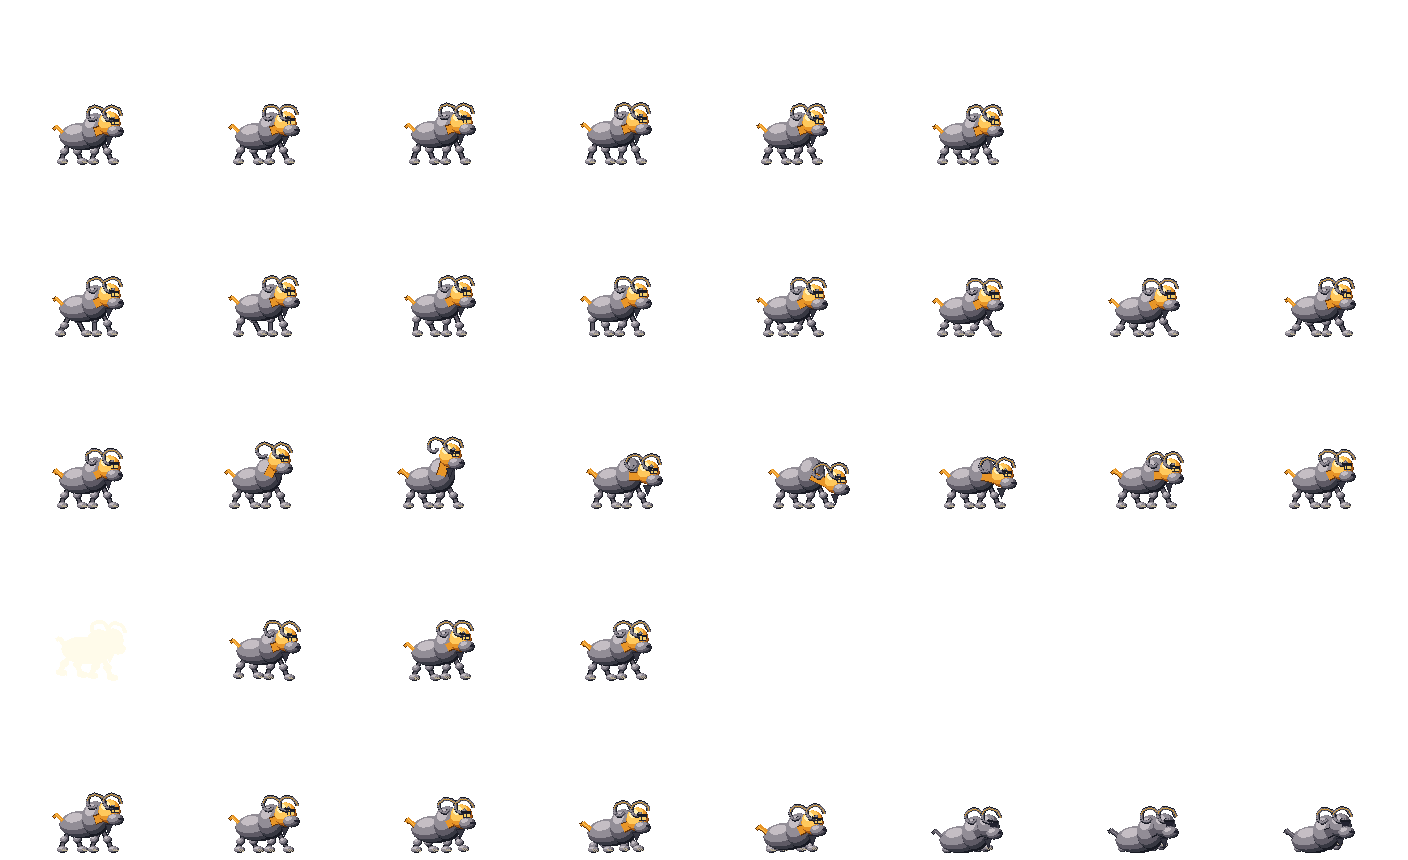
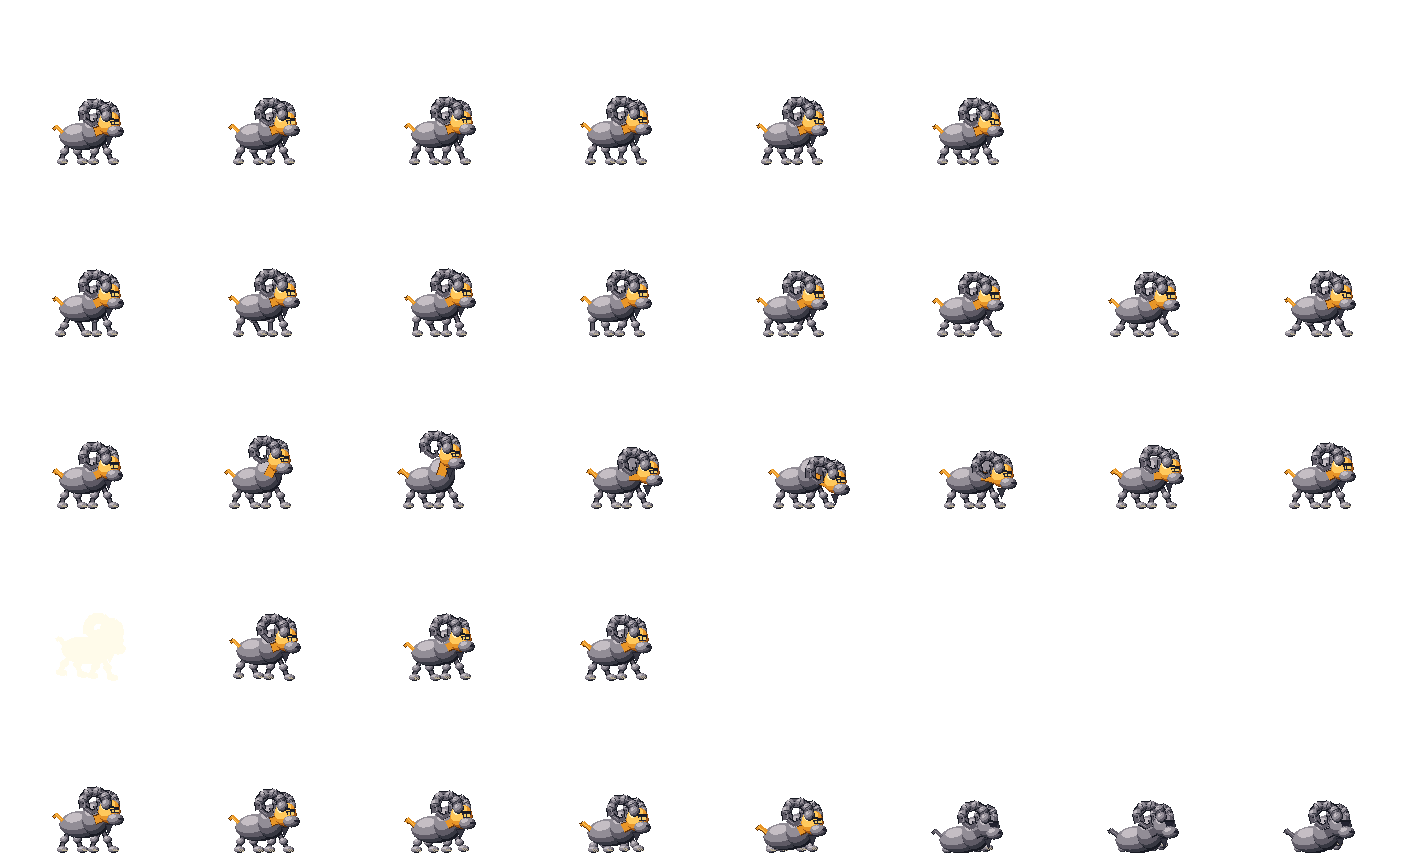
Fix Cinderhorn horn anatomy and seat Ember crown on its head

diff --git a/client/index.html b/client/index.html
@@ -40,7 +40,7 @@
     <svg id="logo" class="logo" viewBox="0 0 1000 440" role="img" aria-label="Valhalla Rumble, 발할라 럼블"></svg>
 
     <p class="cta"><span class="cta-en">[ Touch to Awaken the Horn ]</span><span class="cta-ko" lang="ko">터치하여 시작</span></p>
-    <p class="version">Beta 1.43.1</p>
+    <p class="version">Beta 1.43.2</p>
 
     <button class="start" id="start" type="button" aria-label="Touch to awaken the horn"></button>
   </section>

diff --git a/scripts/emberwake_slime_models.py b/scripts/emberwake_slime_models.py
@@ -129,13 +129,24 @@ def cinderhorn(setup,clip,n):
     r.taper([(x-28,y+5),(x-35,y+12),(x-38,y+9)],cooled(d),4,1)
     hx=x+23+11*s-5*w;hy=y+15+14*w-16*s
     r.limb([(x+8,y+6),(hx-5,hy-4)],cooled(d),9)
+    def horn(rootx, rooty, size):
+        # A thick open ram curl rooted at the temple, with an inward-pointing tip.
+        curve=[(0,0),(-2,9),(-10,15),(-20,14),(-25,6),(-24,-4),(-17,-10),(-11,-7),(-12,-3)]
+        pts=[(rootx+u*size,rooty+v*size) for u,v in curve]
+        r.limb(pts[:6],IRON,10*size)
+        r.taper(pts[5:],IRON,5*size,.7*size)
+        r.ball(rootx,rooty,5.6*size,6.2*size,IRON)
+        # Lit upper ridge and short growth grooves follow the horn's solid curve.
+        r.line([(px,py+1.2*size) for px,py in pts[:6]],IRON[3],1)
+        for j in (1,2,3,4,5):
+            px,py=pts[j];vx=pts[j+1][0]-pts[j-1][0];vy=pts[j+1][1]-pts[j-1][1]
+            length=math.hypot(vx,vy);nx=-vy/length;ny=vx/length
+            width=(3.3-j*.35)*size
+            r.line([(px-nx*width,py-ny*width),(px+nx*width,py+ny*width)],IRON[1],1)
+    # Far curl is behind the skull; the larger near curl grows from the visible temple.
+    horn(hx+7,hy+10,.72)
     r.ball(hx,hy,12,14,cooled(d));r.ball(hx+6,hy-9,9,7,IRON)
-    # True spiral iron horns with a bright outer ridge, attached to the head.
-    for side in (-1,1):
-        cx=hx-8+side*9;cy=hy+10
-        pts=[(cx+math.cos(t)*rr,cy+math.sin(t)*rr) for t,rr in [(j*.30,12-j*.44) for j in range(20)]]
-        r.limb(pts,IRON,3)
-        r.line(pts[:10],GOLD[2],1)
+    horn(hx-3,hy+9,1.)
     r.poly([(hx+1,hy+3),(hx+10,hy+3),(hx+9,hy-1),(hx+2,hy-1)],OUTLINE)
     if d<.65:
         r.poly([(hx+3,hy+2),(hx+9,hy+2),(hx+9,hy),(hx+3,hy)],GOLD[3])
@@ -231,9 +242,18 @@ def crown(setup,clip,n):
         r.line([(hx-10,hy+4),(hx-5,hy+2)],FIRE[4],2)
         r.line([(hx+9,hy+7),(hx+7,hy)],FIRE[3],2)
     r.poly([(hx-8,hy-8),(hx-3,hy-6),(hx+1,hy-9),(hx+9,hy-7),(hx+6,hy-14),(hx-5,hy-15)],cooled(d)[2],OUTLINE)
-    # Separate broken crown drops onto the ground beside the fallen stone body.
-    cr=r if d<.5 else type(r)(a,0,0,0)
-    cx=hx if d<.5 else 20+24*d
-    cy=hy+27 if d<.5 else (hy+27)*(1-d)-3*d
-    plate(cr,[(cx-18,cy),(cx-20,cy+15),(cx-10,cy+8),(cx-6,cy+18),(cx-2,cy+3),(cx+6,cy),(cx+10,cy+13),(cx+14,cy+6),(cx+19,cy+14),(cx+17,cy-2)],GOLD)
+    # The solid rim overlaps the scalp; only the death clip sheds the crown.
+    seat=hy+12
+    if d<=.4:
+        cr,cx,cy=r,hx,seat
+    else:
+        t=(d-.4)/.6
+        sx,sy=r.t(hx,seat)
+        cx,cy=sx*(1-t)+44*t,sy*(1-t)-3*t
+        cr=type(r)(a,cx,cy,r.phi*(1-t))
+    plate(cr,[(cx-17,cy),(cx+17,cy),(cx+18,cy+7),(cx+19,cy+17),
+              (cx+11,cy+11),(cx+7,cy+20),(cx+3,cy+7),(cx-3,cy+7),
+              (cx-8,cy+18),(cx-12,cy+10),(cx-20,cy+16),(cx-18,cy+3)],GOLD)
+    cr.line([(cx-16,cy+3),(cx+16,cy+3)],GOLD[3],2)
+    cr.line([(cx-15,cy+6),(cx+15,cy+6)],GOLD[0],1)
     return a

diff --git a/tests/emberwake-materials.py b/tests/emberwake-materials.py
@@ -29,6 +29,27 @@ def bounds(mask):
     y,x=np.nonzero(mask);assert len(y),'material vanished'
     return int(x.min()),int(y.min()),int(x.max()),int(y.max())
 
+def crown_on_body(im):
+    # A worn crown must be part of the body's connected silhouette, not a floating island.
+    from collections import deque
+    alpha=im[:,:,3]>0;seen=np.zeros(alpha.shape,dtype=bool);largest=[]
+    for y,x in zip(*np.nonzero(alpha)):
+        if seen[y,x]:continue
+        seen[y,x]=True;component=[];todo=deque([(y,x)])
+        while todo:
+            yy,xx=todo.popleft();component.append((yy,xx))
+            for dy in (-1,0,1):
+                for dx in (-1,0,1):
+                    ny,nx=yy+dy,xx+dx
+                    if 0<=ny<alpha.shape[0] and 0<=nx<alpha.shape[1] and alpha[ny,nx] and not seen[ny,nx]:
+                        seen[ny,nx]=True;todo.append((ny,nx))
+        if len(component)>len(largest):largest=component
+    body=np.zeros(alpha.shape,dtype=bool)
+    for y,x in largest:body[y,x]=True
+    gold=material(im,R.GOLD)
+    return gold.any() and (body&gold).sum()>=gold.sum()*.98
+
+
 check(without_emberwake(meta)==without_emberwake(base),'all 139 unrelated Cathedral kinds and manifest fields preserved')
 hashes=json.loads((BACKUP/'manifest.txt').read_text())['unrelatedPngs']
 check(all(hashlib.sha256((R.ASSETS/name).read_bytes()).hexdigest()==digest for name,digest in hashes.items()),f'all {len(hashes)} unrelated native PNGs unchanged')
@@ -56,4 +77,6 @@ for kind in selected:
     else:
         check(db[3]-db[1]<(ib[3]-ib[1])*.75,'Uncrowned Ember: stone limbs buckle and torso slumps')
         gold=material(dead,R.GOLD);check(gold.sum()>30 and bounds(gold)[3]>=ay-4,'Uncrowned Ember: broken crown falls beside the body onto the ground')
+        living=[cell(kind,clip,n) for clip,(_,count) in R.CLIPS.items() if clip!='die' for n in range(count) if (clip,n)!=('hurt',0)]
+        check(all(crown_on_body(im) for im in living),'Uncrowned Ember: crown stays joined to the head silhouette in every living pose')
 print(f'emberwake-materials: {checks} checks')

diff --git a/docs/emberwake-slime-art.md b/docs/emberwake-slime-art.md
@@ -3,7 +3,7 @@
 Seven enemies are redrawn on `feat/emberwake-slime-art` in
 `/media/raid/valhallasc-data/emberwake-slime-work`. Live artwork stays unchanged.
 The enemy-art backlog requires picture approval before deployment. Candidate
-Beta 1.43.1 needs version reconciliation at integration.
+Beta 1.43.2 needs version reconciliation at integration.
 
 Seven native PixelFlow sources contain 238 editable frames. Every kind has
 its own fierce face, eight distinct attack poses and eight fitting death poses.
@@ -17,14 +17,15 @@ changes. No server build or restart.
 | `ew_ashback` | `2bbd1d60a27e12d7` | Long molten salamander, tapered tail, rock back plates and a narrow lizard socket. Coils back then lunges with its muzzle; four legs fold, torso settles and molten skin cools to stone. |
 | `ew_glasswing` | `122a4fe7c7d09fd0` | Six-legged glass moth, faceted compound eyes, antennae and rigid veined wing panels. Wings draw back then cast cinder shards; panels rotate at their roots, crack, fold and land from hover. |
 | `ew_slagjaw` | `cb0e594ac0aea3e2` | Squat plated burrower, interlocking dorsal blades, wedge snout and recessed reptilian eye. Lower jaw opens on its visible rear hinge then bites; legs tuck beneath the plated torso, jaw closes and fissures darken. |
-| `ew_cinderhorn` | `c16125cb432f4de7` | Tall-shouldered stone ram with spiral iron horns, rectangular pupil and beard. Raises its head then drives its horns down and forward; legs fold, belly settles and exposed fire cools. |
+| `ew_cinderhorn` | `c16125cb432f4de7` | Tall-shouldered stone ram with thick tapered iron curls rooted at the temples, rectangular pupil and beard. Raises its head then drives its horns down and forward; legs fold, belly settles and exposed fire cools. |
 | `ew_chainmaw` | `79c86c8e75383576` | Broad shackled beast with square muzzle, one scarred eye and attached jaw bridle. Opens and raises its jaws then slams; legs fold, molten seams cool and the linked bridle follows the jaw into the corpse. |
 | `ew_bellows` | `7c912134420335fa` | Yrsa has a severe human scowl, iron crown, burgundy coat and accordion forearms. Bellows expand on wind-up, compress into a two-nozzle flame cast, then recover; knees buckle, arms fold and flames extinguish. |
-| `ew_crown` | `f2c84ae0421f03c4` | Charcoal humanoid with asymmetric fissure eyes, furnace mouth, huge fists and a separate broken crown. Fists rise and hammer down; stone limbs buckle, the core cools and the crown drops to the ground beside the torso. |
+| `ew_crown` | `f2c84ae0421f03c4` | Charcoal humanoid with asymmetric fissure eyes, furnace mouth, huge fists and a broken crown seated on its head. Fists rise and hammer down; stone limbs buckle, the core cools and the crown drops to the ground beside the torso. |
 
 Original/new idle opaque dimensions: Ashback 72×48 / 72×49, Glasswing 73×55 /
-75×55, Slagjaw 70×47 / 69×48, Cinderhorn 72×59 / 72×61, Chainmaw 69×51 /
-70×51, Yrsa 74×75 / 73×75, Ember 76×79 / 77×79. Scale was chosen after original
+75×55, Slagjaw 70×47 / 69×48, Cinderhorn 72×59 / 72×65, Chainmaw 69×51 /
+70×51, Yrsa 74×75 / 73×75, Ember 76×79 / 77×70. The corrected horn outline is taller and the seated crown lower; body scale stays
+unchanged. Scale was chosen after original
 in-game captures and before creating sources; existing elite scaling stays intact.
 Grounded frames rest on the anchor; Glasswing hovers at least 12 pixels and
 lands monotonically on death. Raw canvas clipping is checked before grounding.
@@ -95,7 +96,7 @@ the same scale.
 33 review PNG/GIFs include rosters, before/after attacks and deaths, and each
 kind's complete sheet and animations. `emberwake_slime_review.py upload` checks
 SHA-256, byte lengths, MIME metadata, dimensions and animation counts.
-All 33 files / 4,592,622 bytes are uploaded and verified. Receipt:
+All 33 files are uploaded and verified, refreshed after the head corrections. Receipt:
 `test-results/emberwake-slime/filedrop-receipt.json`.
 
 - [Before/after](https://gunning.se/filedrop/api.php?action=download&file=valhallasc-emberwake-before-after.png)
@@ -104,3 +105,24 @@ All 33 files / 4,592,622 bytes are uploaded and verified. Receipt:
 
 Awaiting picture approval. Next enemy-art group: The Chained Forge
 (`FORGE-SLIME-ART`).
+
+## Head details corrected after owner review
+
+The owner reported Cinderhorn's odd horns and Ember's floating crown. Thin loop
+horns are replaced by thick tapered, shaded C-shaped ram curls with visible
+temple roots; the far curl sits behind the skull and the near curl overlaps the
+temple. The crown has a solid band overlapping the scalp and uses the head's
+transform through idle, walking, attacks and hurt. It detaches only during death,
+then lands beside the body. Source IDs and frame sizes stay unchanged.
+
+43 focused client assertions pass for these two kinds (`driver-9CLspU`), plus
+14 material/preservation assertions. A silhouette connectivity check verifies the
+crown remains joined to the head in every living pose and rejects the previous
+floating crown. All 68 changed editor/export frames match; every other native
+atlas remains byte-identical to the previous candidate. No encounter tests.
+
+The 33 review pictures/animations are refreshed, with one additional
+[focused correction comparison](https://gunning.se/filedrop/api.php?action=download&file=valhallasc-emberwake-head-fixes.png).
+Previous candidate art/model/raw frames are retained in
+`/media/raid/valhallasc-data/emberwake-head-details-before-20261111`.
+Candidate Beta 1.43.2 remains private pending picture approval.
